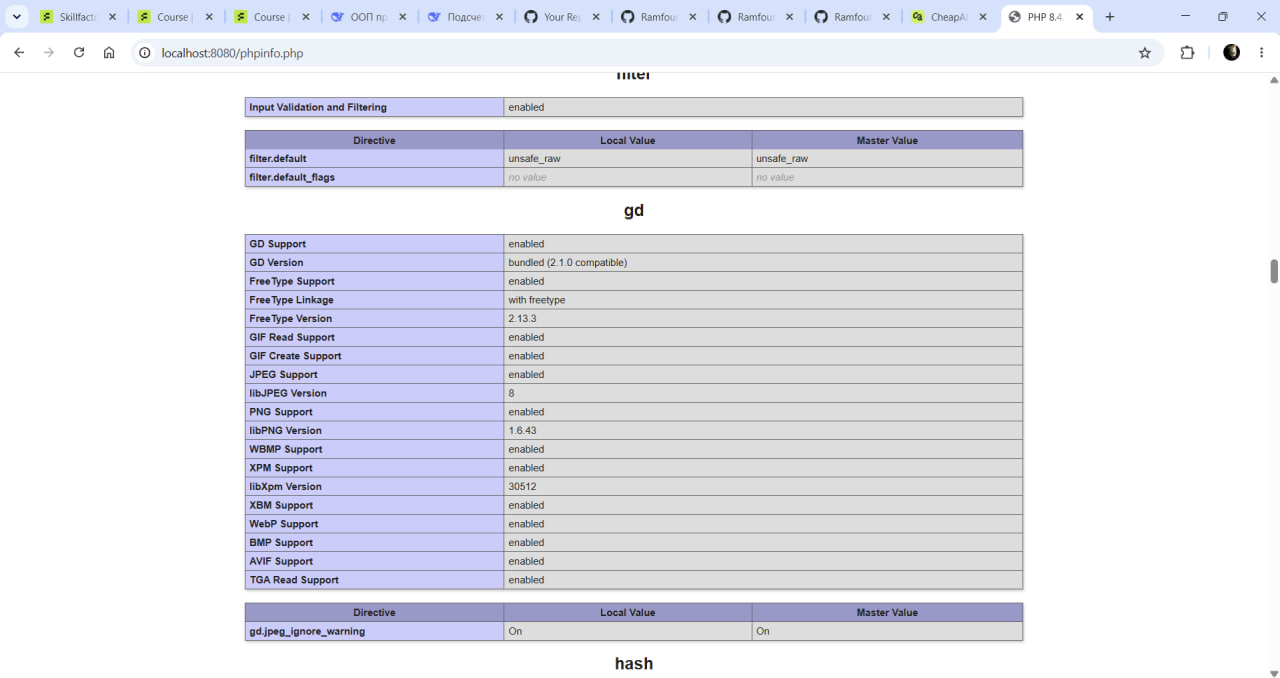
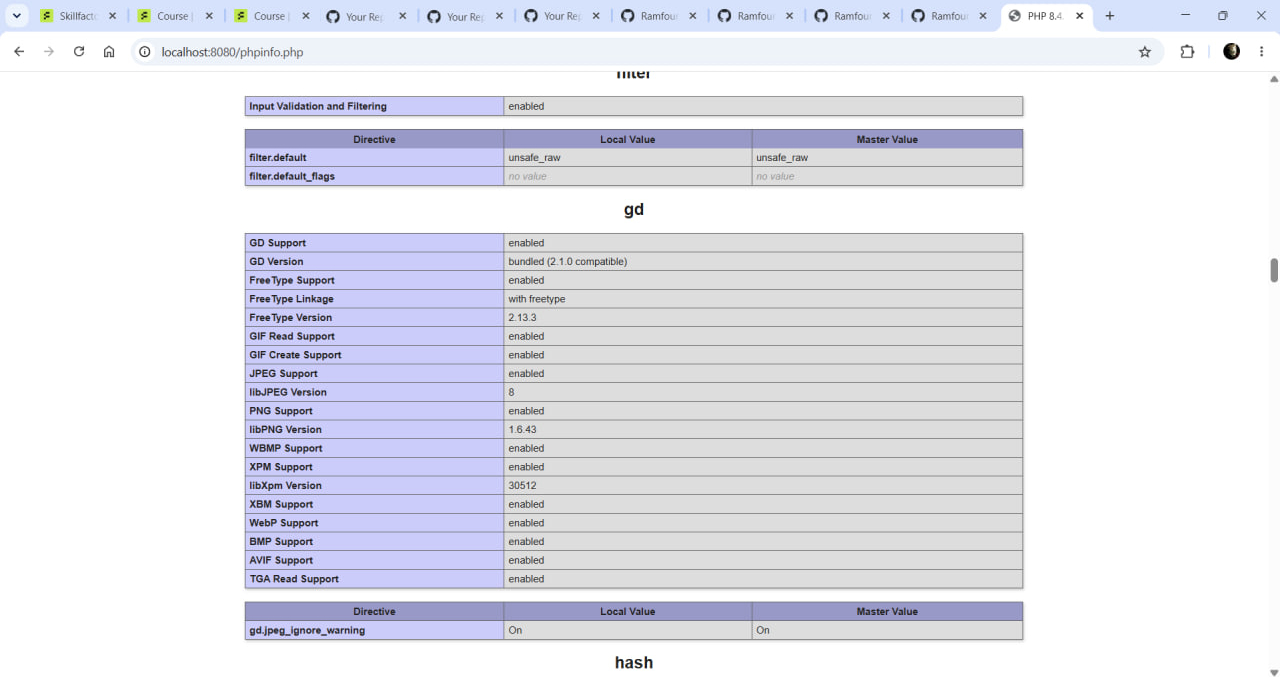
fix readme

diff --git a/README.md b/README.md
@@ -5,7 +5,7 @@
 !45;0= 2 @0<:0E :C@A0 SkillFactory PHP, <>4C;L 24.4.
 ## php-gd
 
-![D>B> A 0:B82=K< php-gd](\images\php-gd.jpg "5<>=AB@0F8O php-gd")
+![D>B> A 0:B82=K< php-gd](images/php-gd.jpg "5<>=AB@0F8O php-gd")
 
 ## !B5:
 
